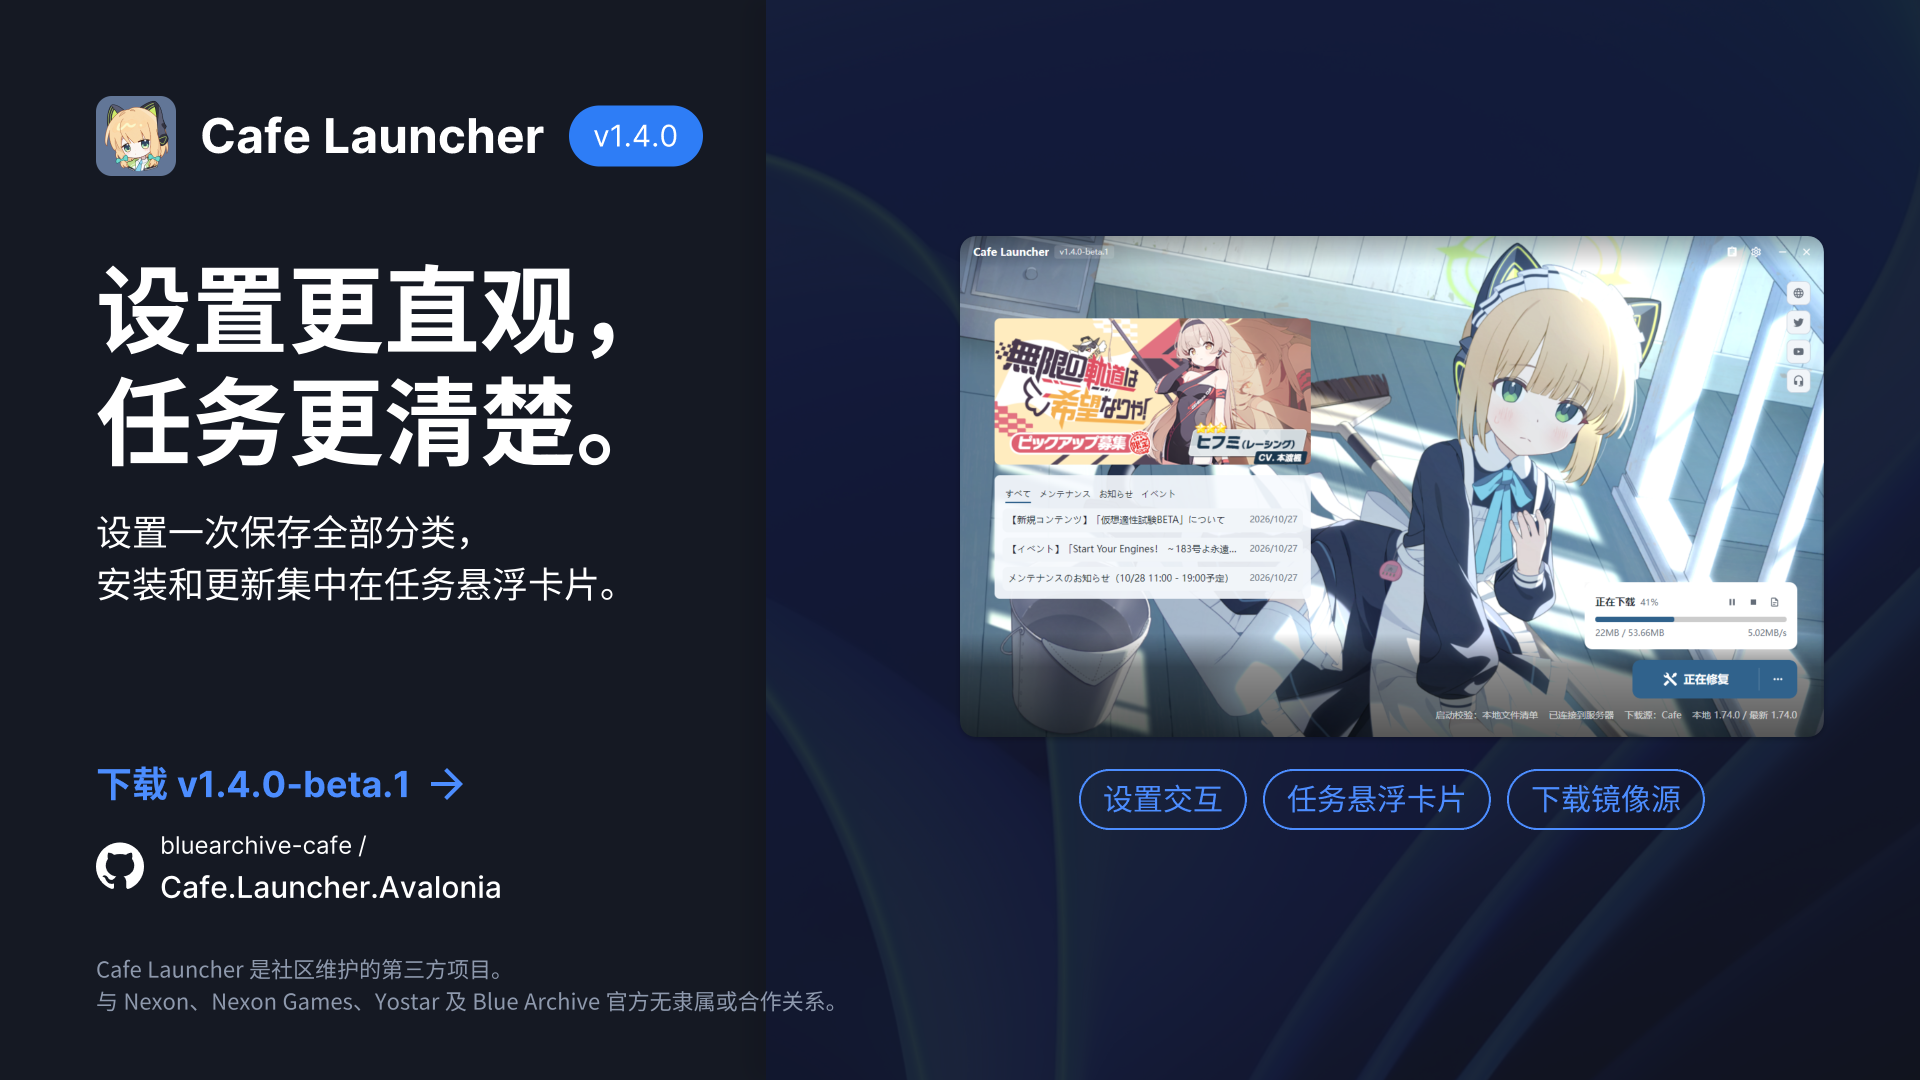
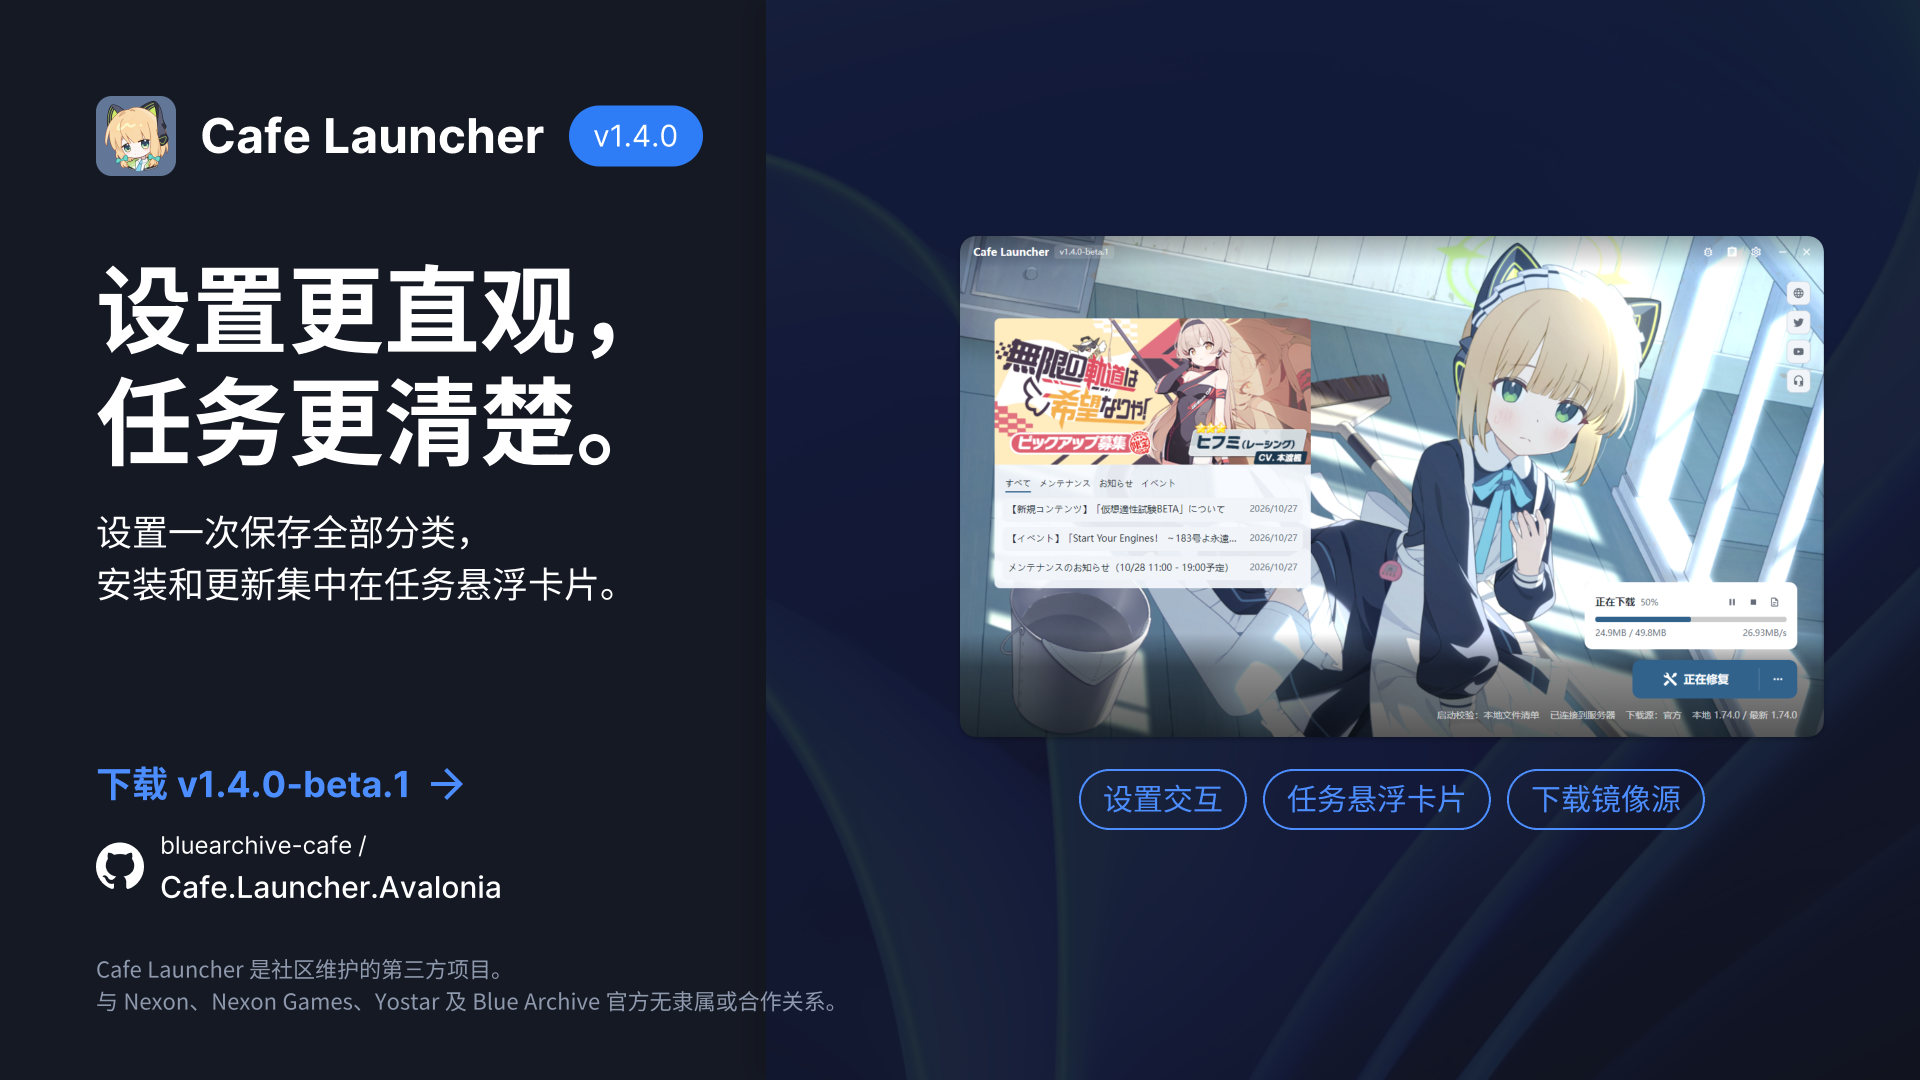
chore(release): 更新 v1.4.0-beta.1 发布横幅与更新日志
同步横幅内的界面截图，使其与横幅/公告卡拼接后的主界面一致；
补充减少动态效果下的视频首帧静帧与横幅拼接的发布说明。

Changed region(s): [[0.5, 0.4278, 0.6875, 0.5806], [0.75, 0.6417, 0.875, 0.6722], [0.8438, 0.5806, 0.875, 0.6111]]

diff --git a/CHANGELOG_RELEASE.md b/CHANGELOG_RELEASE.md
@@ -16,6 +16,11 @@
 >
 > 使用 `1.1.0` 或更早版本的 Windows 免安装版时，仍需手动下载新版并解压升级一次。安装版可使用新版安装程序覆盖升级；自行创建的快捷方式若仍指向 `Cafe.Launcher.Avalonia.exe`，请改为指向 `Cafe.Launcher.exe`。
 
+### 主界面
+
+- **减少动态效果时显示视频静帧**：选择视频背景并启用减少动态效果时，停止播放但显示所选视频的首帧静帧，切回完整动态效果后继续播放；最小化和隐藏到托盘时仍暂停。
+- **横幅与公告卡无缝拼接**：左侧横幅与下方公告卡之间不再留空隙，接缝两侧改为平角、外缘保留圆角；悬停时出现的左右渐变也使用相同圆角，单独显示任一张卡时仍保持四角圆角。
+
 ### 设置
 
 - **设置改为保存时统一提交**：常规、游戏、下载与网络、外观和高级共用同一份草稿；切换分类会回到正文顶部，不会丢失改动。底栏在任一分类显示未保存状态，保存一次提交全部分类；保存中显示「正在保存…」，失败后可重试。
